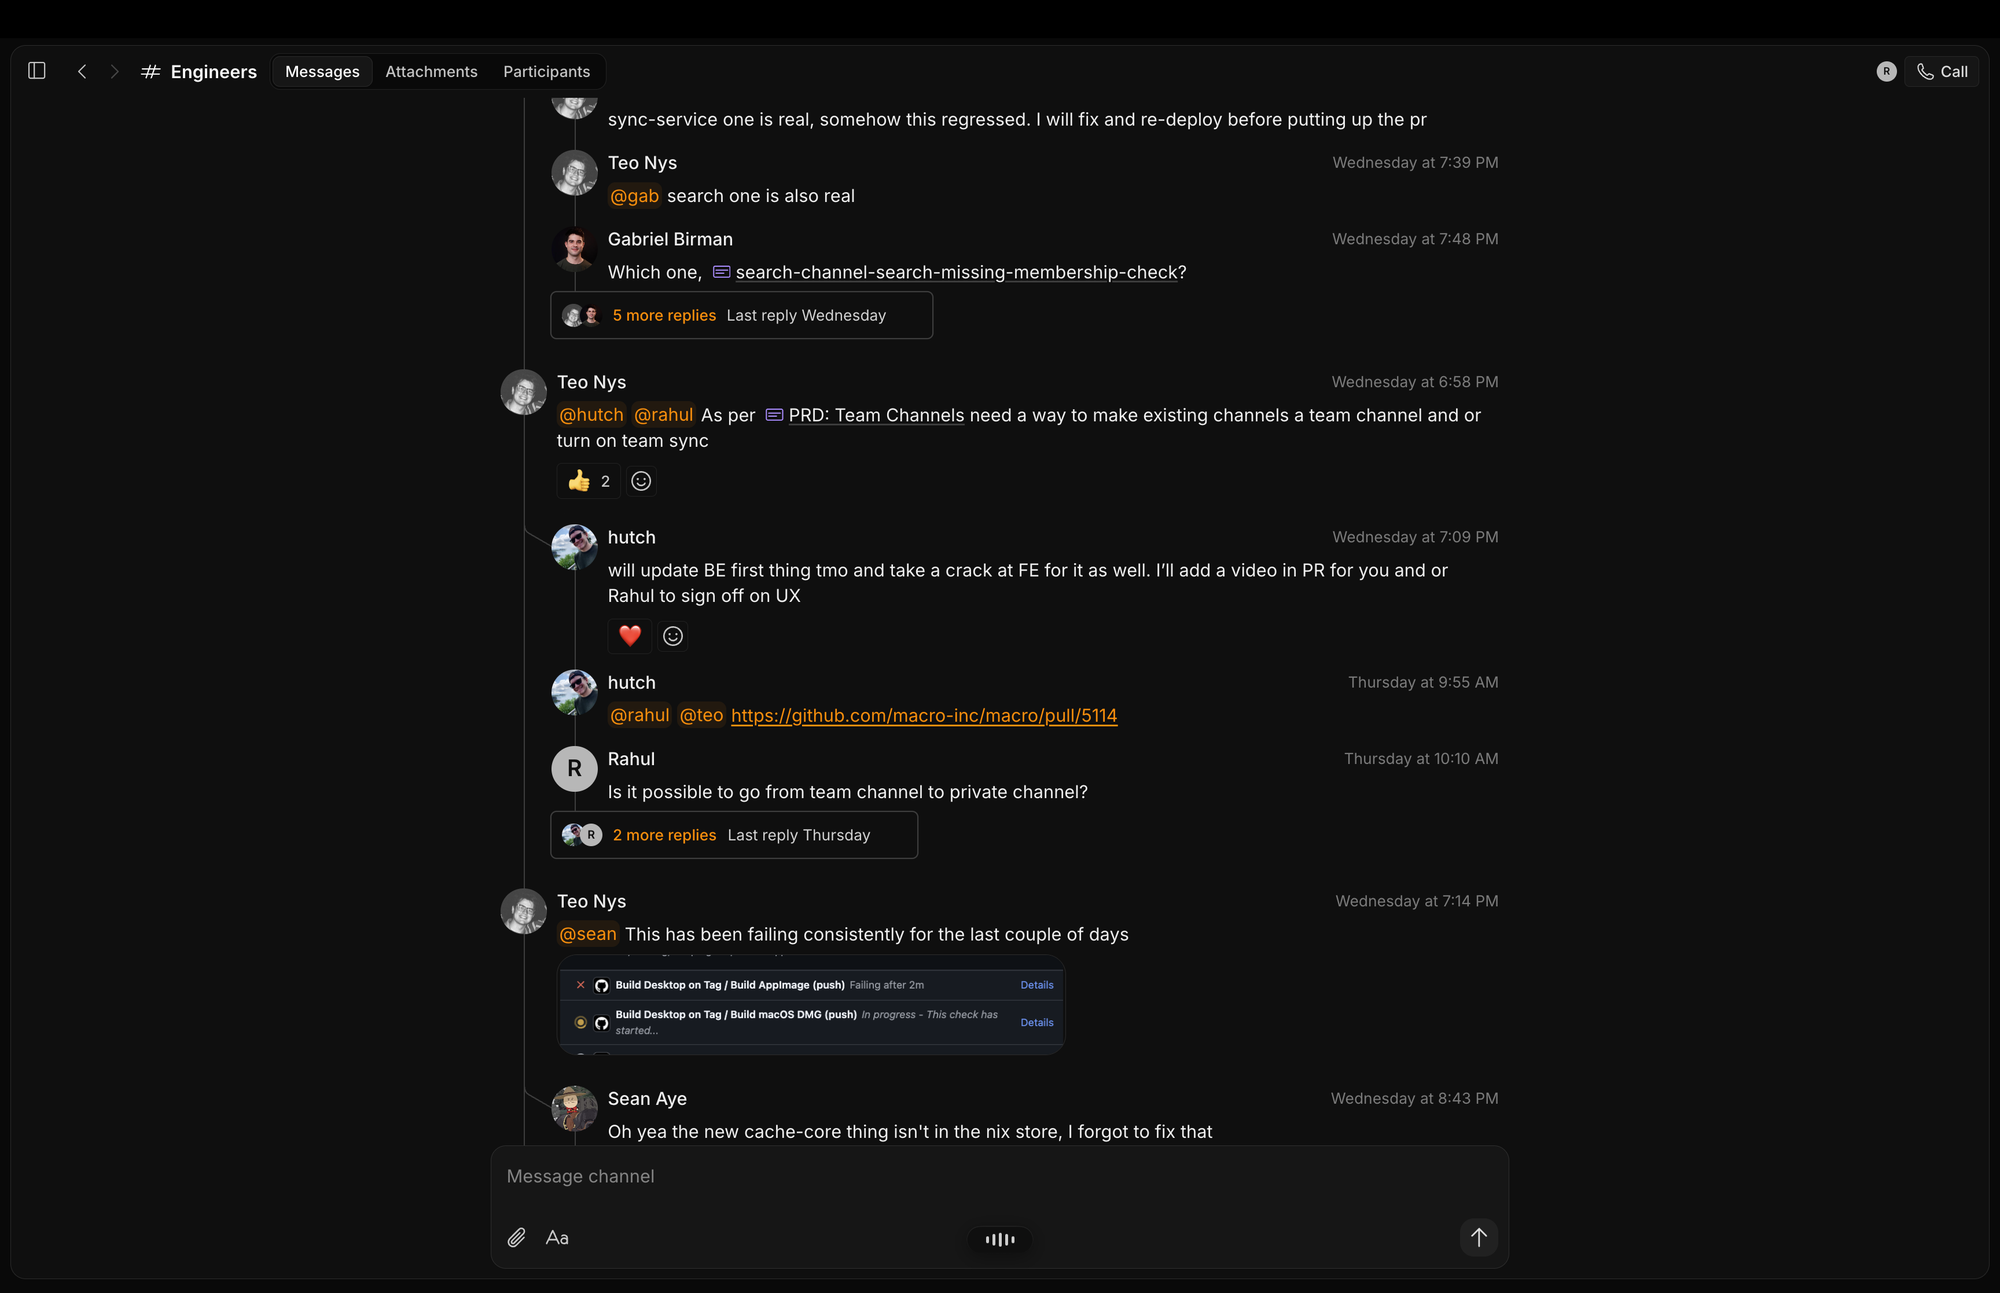
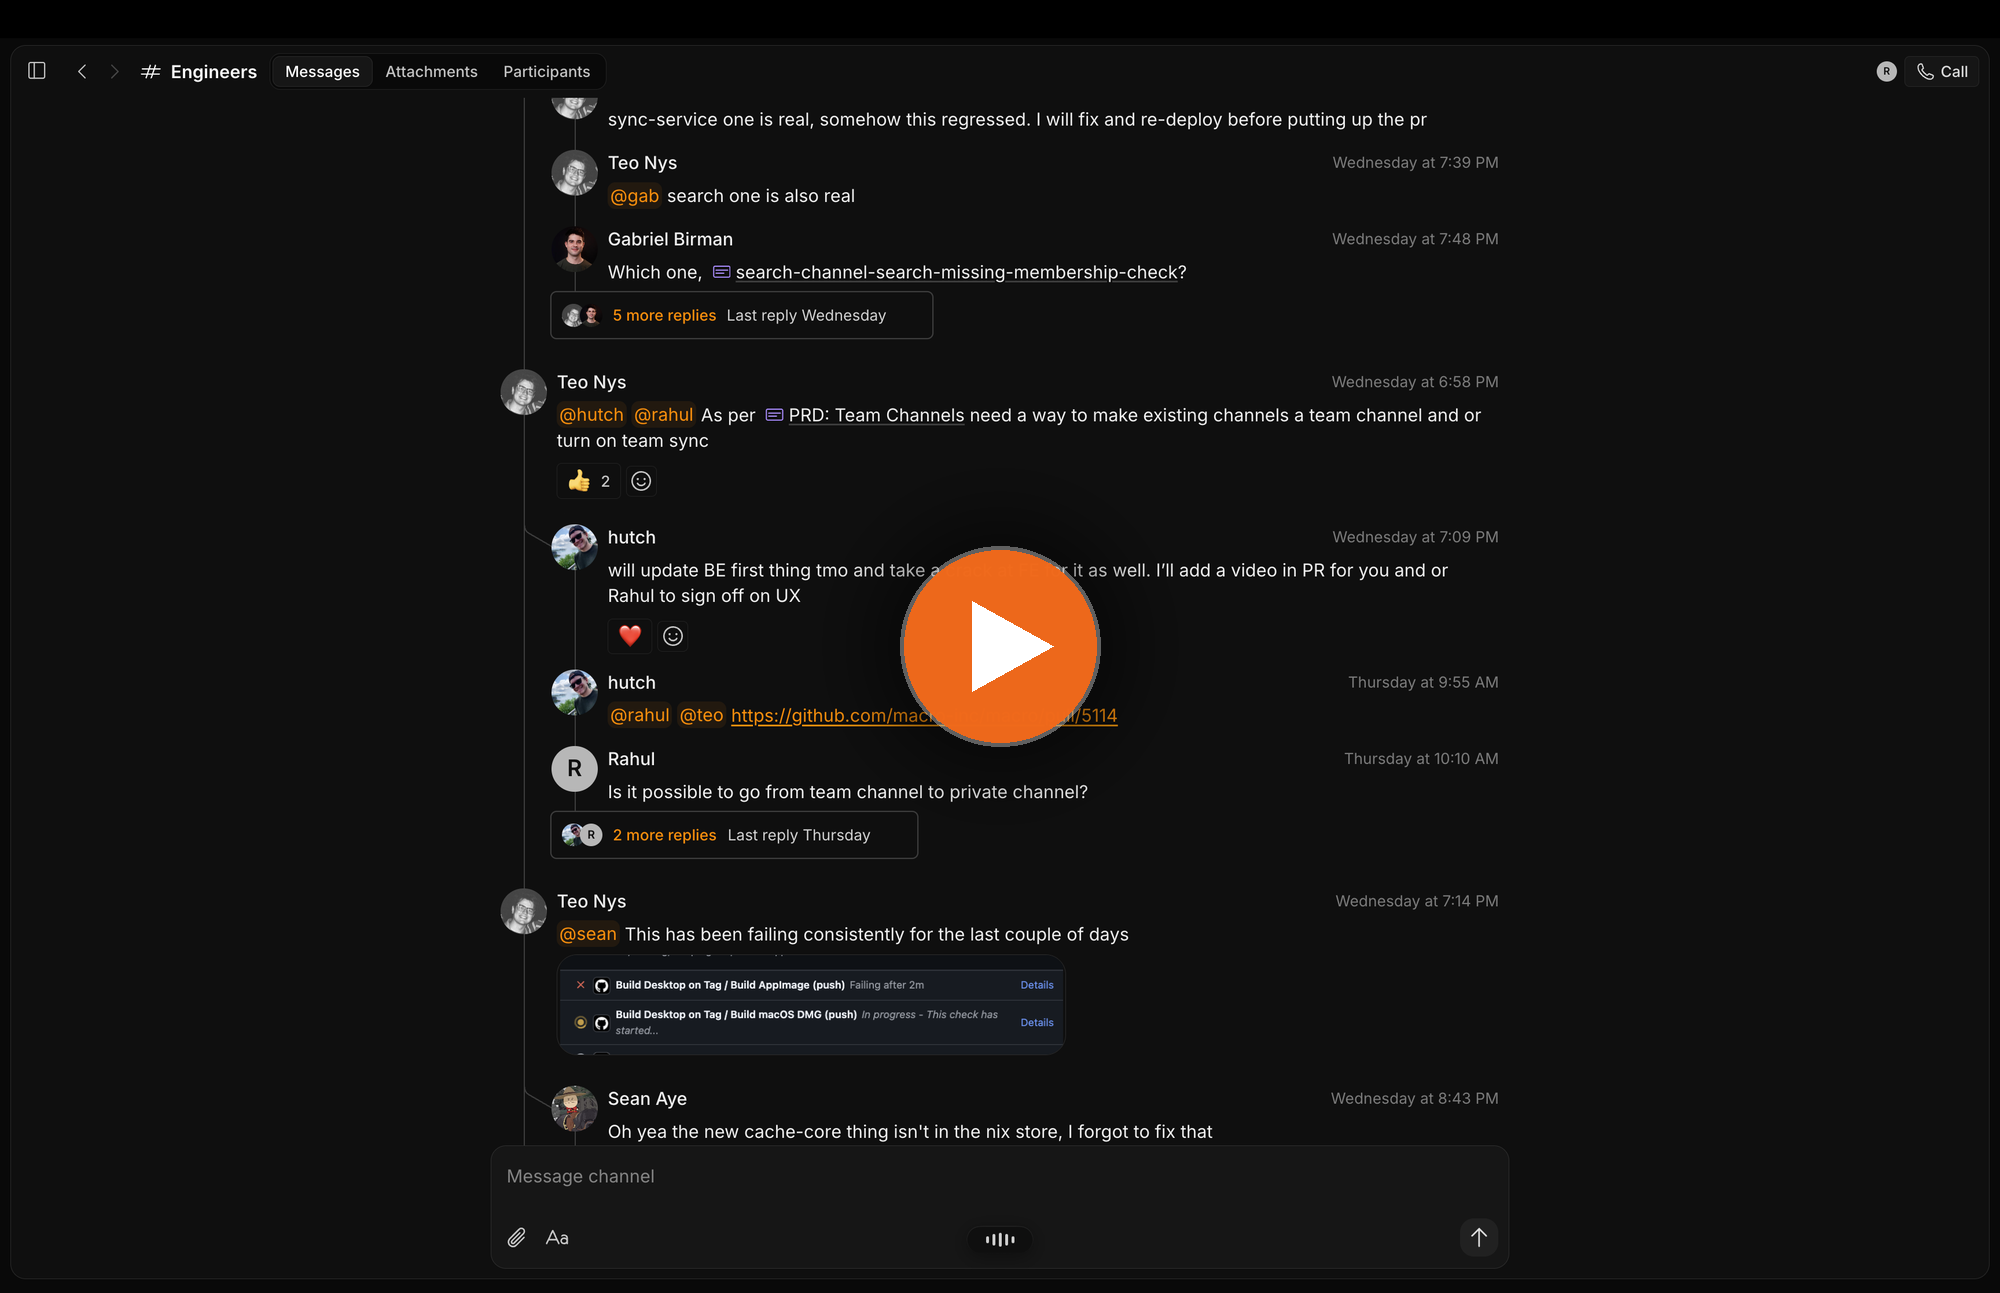
docs: add play-button overlays that link out to YouTube
Composite a brand-orange play button onto each feature screenshot and wrap
each image in a link so clicking it opens the Macro YouTube channel.

Changed region(s): [[0.434, 0.4022, 0.558, 0.5878]]

diff --git a/README.md b/README.md
@@ -69,7 +69,7 @@ Macro Mail is inspired by Superhuman's keyboard-first interface with a few key a
 2. Unified inbox: emails, messages, @mentions, and tasks to complete, all in the same list. Use `j` `k` and `e` to navigate everything.
 3. Better AI, with a tools/MCP surface designed to work across inboxes and to help your agents more accurately retrieve information. For example, we expose a unified search tool that allows agents to search all file attachment PDFs (parsed out of email) directly, rather than pulling email threads then attachments. You can also draft, edit and send emails right from AI chats, without opening your email.
 
-![Macro email thread with actions, tags, and properties in the sidebar](.github/readme/email-thread.png)
+[![Macro email thread with actions, tags, and properties in the sidebar — watch the demo](.github/readme/email-thread.png)](https://www.youtube.com/@Macrodotcom)
 
 4. Multitasking ability — Macro has a built-in window manager that lets you create 3+ splits (scales with monitor size) so you can draft emails while reviewing prior threads.
 5. Company/Contact objects. Macro has native CRM capability so you can `cmd+k` to a contact, like tim@acme.com to see all emails between you and that person, or companies, to see all emails and files between everyone on your team and everyone at that company, e.g. `@acme.com`. All of this right from your email without having to open a heavyweight CRM like HubSpot or Salesforce. Email aggregation by contact or company is also available to your agents so they can better assist with CRM-type queries and actions.
@@ -84,7 +84,7 @@ Macro Mail lives in the same interface as channels, docs, tasks, and code. From 
 
 Macro Chat is designed to be more focused than Slack. The first couple of replies show inline and the rest collapse into a thread, so a busy channel stays readable. Threads are permissioned severally so you can share threads across channels by copying links. Everything is stored in a bidirectional graph, so tasks @link to messages that created them, customer support emails tie into support channels, CRM records get updated when they're discussed in messages, etc. The core idea is that (i) messaging should be the centerpiece around which tasks, mail, docs, and content management are built, all in a lightweight way, and agents should be first-class citizens like human users and (ii) messaging needs to be more focused and readable for technical conversations, and not turn into battles where context is lost and progress is indistinguishable from noise.
 
-![Macro #Engineers channel with threads, mentions, and an inline GitHub check](.github/readme/messages-channel.png)
+[![Macro #Engineers channel with threads, mentions, and an inline GitHub check — watch the demo](.github/readme/messages-channel.png)](https://www.youtube.com/@Macrodotcom)
 
 [Messages docs &rarr;](https://docs.macro.com/product/channels)
 
@@ -98,7 +98,7 @@ The core problem with traditional issue trackers or project management tools is 
 
 The solution isn't to forgo tracking entirely. We tried that and it was a different form of chaos. **The solution we've found is lightweight issues tightly coupled to your channels and DMs, so that issue tracking naturally occurs where the conversation itself happens.**
 
-![Macro tasks list grouped by assignee, with a task detail showing its source message and linked PR](.github/readme/tasks-list.png)
+[![Macro tasks list grouped by assignee, with a task detail showing its source message and linked PR — watch the demo](.github/readme/tasks-list.png)](https://www.youtube.com/@Macrodotcom)
 
 Creating tasks in Macro is easy. Where possible, tasks created are bidirectionally linked to the creating context (e.g. a customer email) so the full chain is auditable from "why are we doing this" → task → agent → pull request, all in one system.
 
@@ -126,7 +126,7 @@ We wanted everything in a single markdown editor without switching tools.
 - Mobile-friendly, in our [iOS app](https://apps.apple.com/us/app/macro-app/id6743133649) or on the web (Android app coming soon)
 - Agent native editing, powered by swarms of agents operating as peers in the CRDT collaboration system like human collaborators. See [Wolf's tech blog on this](https://404wolf.com/posts/AgentsAttackTheDocument/). Use via MCP or internal agent.
 
-![A PRD in Macro with tags, assignees, properties, and references](.github/readme/docs-prd.png)
+[![A PRD in Macro with tags, assignees, properties, and references — watch the demo](.github/readme/docs-prd.png)](https://www.youtube.com/@Macrodotcom)
 
 Agents can edit documents that are open or closed. One interesting use case for agentic editing is to maintain team-context. For example we have a Macro Automation that runs daily to update our in-office Pool Games markdown doc. It scans through all of the channels to see if anyone has one and then updates the doc. If somebody has already edited the doc, it can know that and forgo the update. Conflicts are handled natively by the CRDT collaboration system.
 
@@ -140,7 +140,7 @@ The problem with standalone CRM is the same as with task trackers: it's not up t
 
 **Macro fixes this by colocating your CRM with your team chat and email, instead of having a separate system.** When you @mention a company record in a message, your team can click that record to see the latest — it's much faster than navigating to your CRM to find the record, going back to Slack and pasting it in, and this speed difference makes all the difference. Secondly, @mentioning a Company/Contact creates a bidirectional link between that message and the record, so from the record later you can trace the conversations that happened. This fixes the core issue we had with Attio/HubSpot/Salesforce: the actual important conversation about a deal happens not in the CRM but over messages. Macro makes this a feature rather than making you feel disorganized about it. It's not your fault, it was the CRM's fault!
 
-![Macro CRM board grouped by pipeline stage](.github/readme/crm-board.png)
+[![Macro CRM board grouped by pipeline stage — watch the demo](.github/readme/crm-board.png)](https://www.youtube.com/@Macrodotcom)
 
 We haven't innovated on the core idea of CRM other than what you read in the above paragraph. None of this should be that interesting:
 
@@ -162,7 +162,7 @@ Since Macro has the team context in a single database, it is uniquely positioned
 
 Team memory comes in quite handy. For example, I took a screenshot of some features I'd written in a paper notepad and asked the agent to create tickets and assign to the appropriate engineer which it did perfectly without any runtime tool use.
 
-![A Macro task being handed off to a coding agent, with a linked branch](.github/readme/agents-task-handoff.png)
+[![A Macro task being handed off to a coding agent, with a linked branch — watch the demo](.github/readme/agents-task-handoff.png)](https://www.youtube.com/@Macrodotcom)
 
 Memory isn't supposed to encompass everything. Macro also has a tool/MCP surface with near 100% coverage of the things you can do in Macro's UI, so that your agents aren't limited in what they can do like they are in most SaaS. There are also no rate limits on MCP.
 
